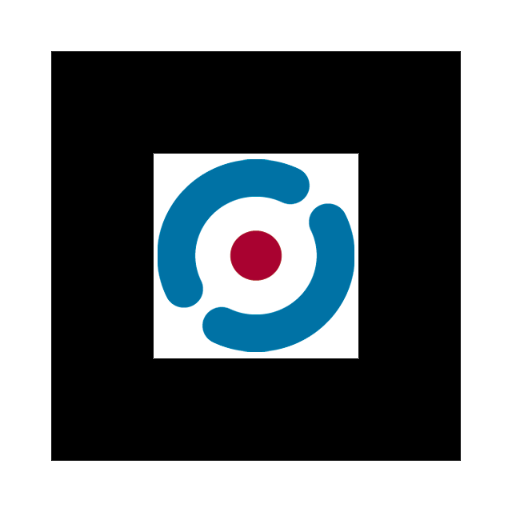
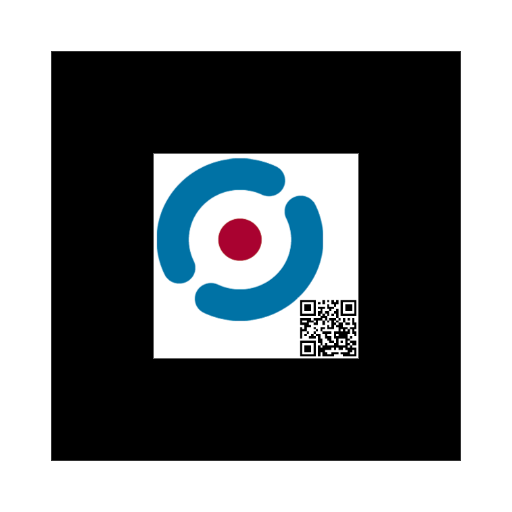
added new marker

Changed region(s): [[0.3125, 0.2812, 0.7188, 0.7188], [0.2812, 0.4375, 0.3125, 0.5312], [0.3125, 0.375, 0.3438, 0.4375]]

diff --git a/index.html b/index.html
@@ -14,10 +14,10 @@
           <a-asset-item id="ypso-obj" src="ypso-logo.obj"></a-asset-item>
           <a-asset-item id="ypso-mtl" src="ypso-logo.mtl"></a-asset-item>
       </a-assets>
-  	<a-marker type='pattern' patternUrl='pattern-marker.patt'>
-            <a-box position='0 0.5 0' material='opacity: 0.5;'  material='color: red;' ></a-box>
+  	<a-marker preset='custom' url='pattern-marker.patt'>
+           <!-- <a-box position='0 0.5 0' material='opacity: 0.5;'  material='color: red;' ></a-box> -->
             <a-entity obj-model="obj: #ypso-obj; mtl: #ypso-mtl" 
-              rotation="0 90 0" position="0 0.5 0" scale="0.01 0.01 0.01"></a-entity>
+              rotation="0 0 0" position="0 0.5 0" ></a-entity>
 			  
   	</a-marker>
   	<a-entity camera></a-entity>
